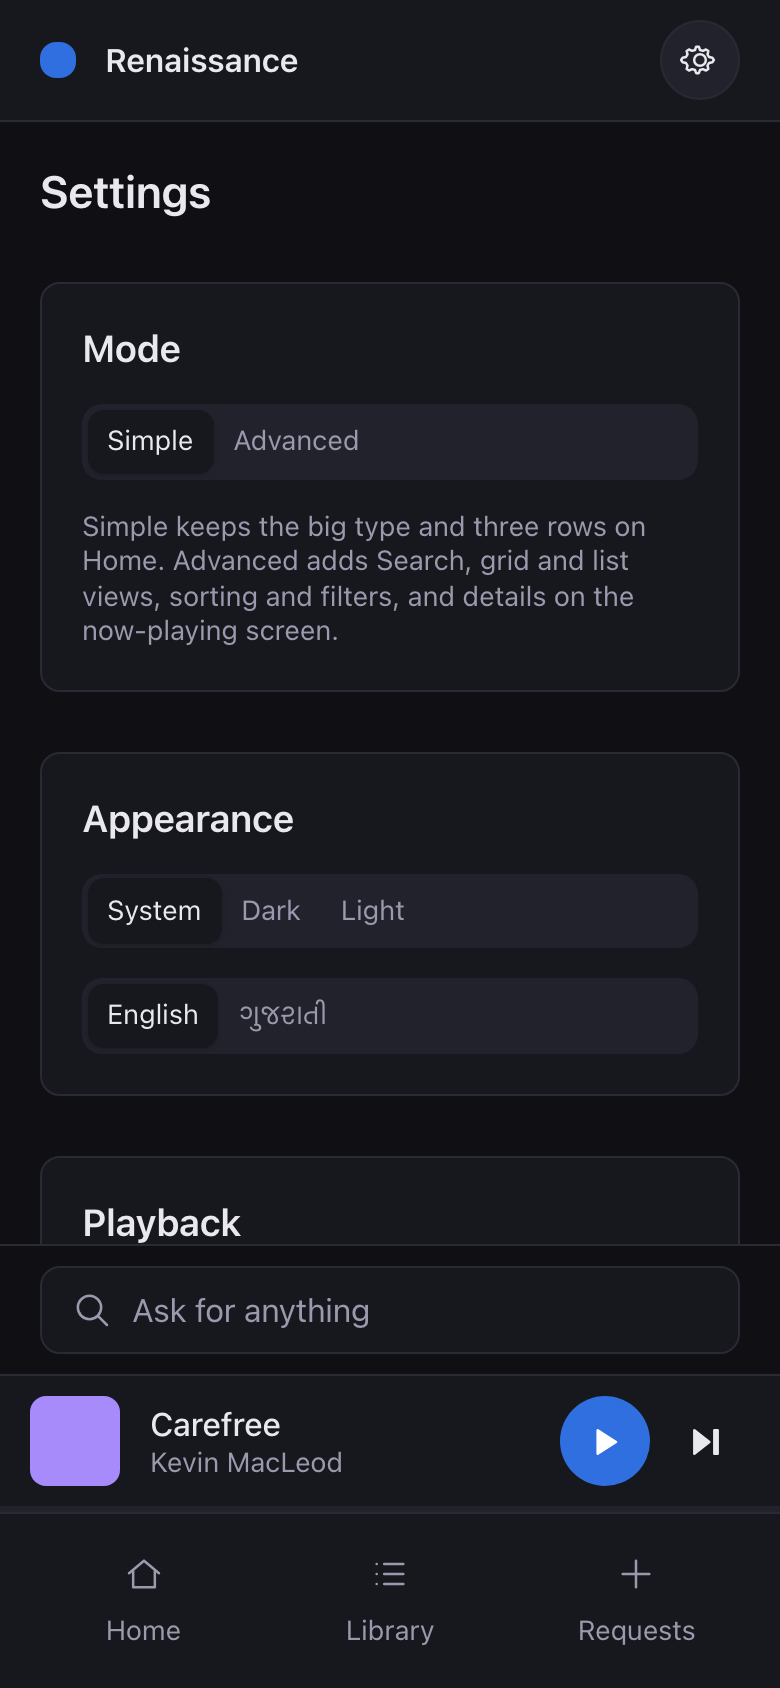
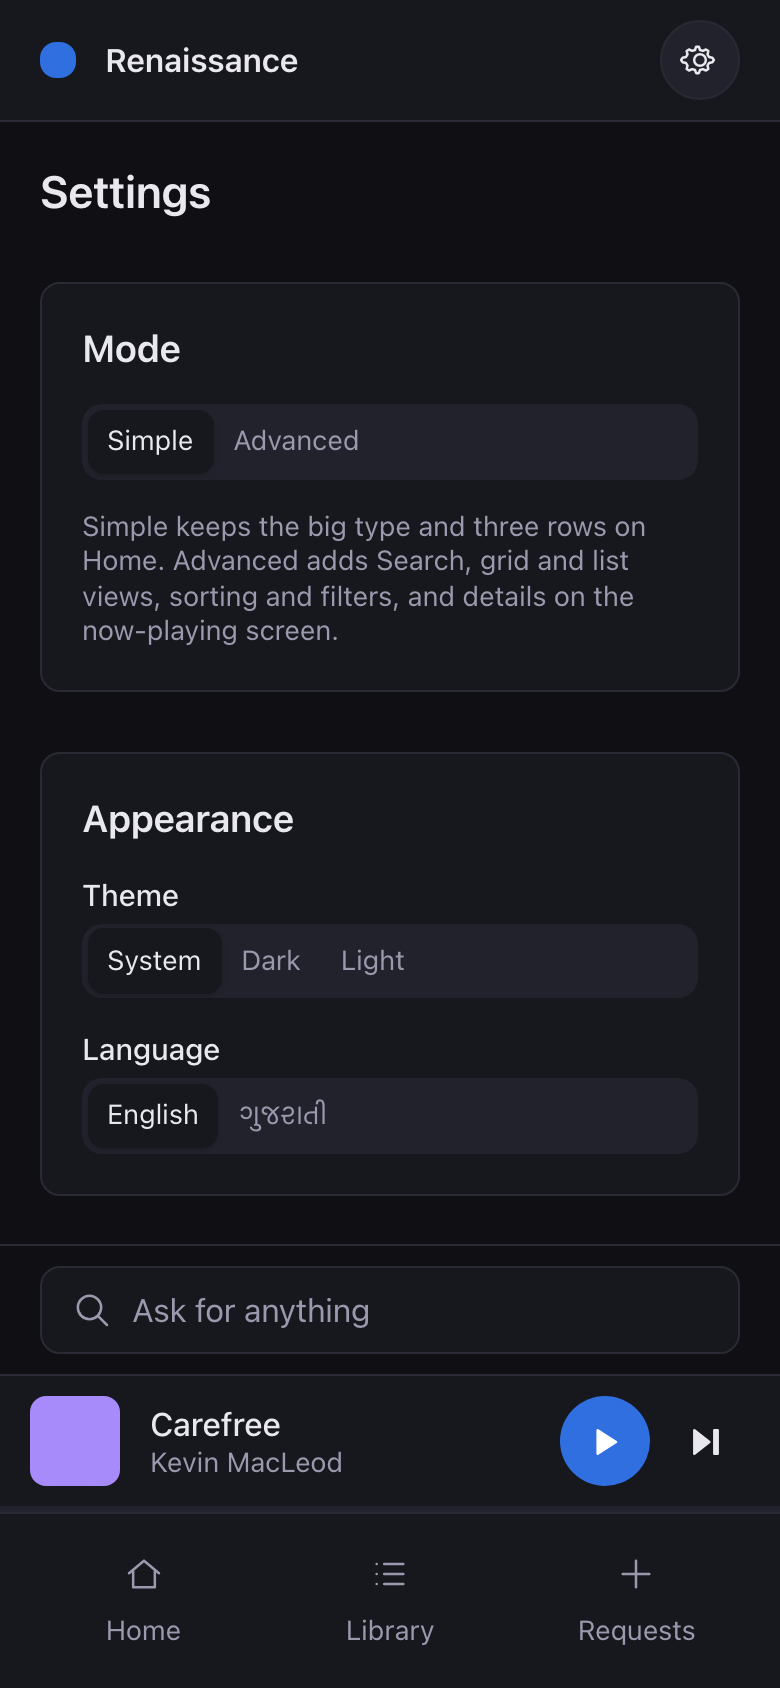
docs: testing notes, retaken settings and library shots, changeset for round 5

diff --git a/.changeset/phase-1-core-web.md b/.changeset/phase-1-core-web.md
@@ -13,4 +13,4 @@ After the second round: the player bar keeps a usable scrubber at every width fr
 
 After the third round: a heart tapped on an album page fills at once; a heart tapped while the library is refreshing stays after the refresh lands; a favourite or a play made on another device reaches this one the moment the server announces it, for any song in the library, not only the 200 most recently saved; the player bar keeps its five transport buttons on one row on tablets in simple mode; the whole Ask bar box takes a tap; switching to Gujarati changes the page language and the words together, and a switch whose strings cannot be fetched leaves everything as it was and says so; a screen that cannot load offline says you are offline and loads itself when the connection returns; a reload no longer flashes "no favourites" or "this playlist is gone" while the cache loads from disk; an artist or album named exactly what you typed leads the instant results; Settings names the full rebuild "Rebuild library" apart from the quick refresh; a song whose name is only spaces shows "(untitled)".
 
-After the fourth round: the current row shows the pause glyph while the song plays and the play glyph while it is paused, as the bar does; a song's menu opens above its button when the list has no room below it, so every item is reachable on the last rows of a phone; the song, album and artist counts on the Library and Settings pages wait for the library to load instead of saying 0 for a moment, and Home shows no empty sentence while the session is still being read; a favourite or a play pushed from another device is kept even when one entry of the push is malformed, the unknown items are fetched in one request and only music is kept; a playlist deleted during a refresh stays deleted after a restart; the album page keeps the later of the two last-played dates when one side has none.
+After the fourth round: the current row shows the pause glyph while the song plays and the play glyph while it is paused, as the bar does; a song's menu opens above its button when the list has no room below it, so every item is reachable on the last rows of a phone; the song, album and artist counts on the Library and Settings pages wait for the library to load instead of saying 0 for a moment, and Home shows no empty sentence while the session is still being read; a favourite or a play pushed from another device is kept even when one entry of the push is malformed, the unknown items are fetched in one request and only music is kept; a playlist deleted during a refresh stays deleted after a restart; the album page keeps the later of the two last-played dates when one side has none. Rework round 5: the queue is saved as song ids, so a shuffle of a whole library survives a reload and a save that fails is said once; a stream that fails plays again from Play and never spreads to the next song; play reports go out in order; untitled files are named in the user's language; the library says when its first load failed instead of claiming a last time, hides counts until the first sync is in, and runs a rebuild asked for during a refresh; add to an empty queue says "Playing"; Settings captions its theme, language and network choices; album and artist pages say "Loading…" while they look a missing item up; the year filter carries the filter glyph; row menus follow their row on scroll.

diff --git a/docs/testing.md b/docs/testing.md
@@ -1,6 +1,6 @@
 # Testing
 
-Three layers, all run by `pnpm test` and CI except the last, which needs a real server.
+Four layers, all run by `pnpm test` and CI except the last, which needs a real server.
 
 | Layer                     | Where                                                                                                                                                                                                                                                                                                                                                                                                                                                                                                                                                                                                                                                                                                                                                                                                                                                                                                                                                                                                                                                                                                                                                                                           | Runs                                                                |
 | ------------------------- | ----------------------------------------------------------------------------------------------------------------------------------------------------------------------------------------------------------------------------------------------------------------------------------------------------------------------------------------------------------------------------------------------------------------------------------------------------------------------------------------------------------------------------------------------------------------------------------------------------------------------------------------------------------------------------------------------------------------------------------------------------------------------------------------------------------------------------------------------------------------------------------------------------------------------------------------------------------------------------------------------------------------------------------------------------------------------------------------------------------------------------------------------------------------------------------------------- | ------------------------------------------------------------------- |
